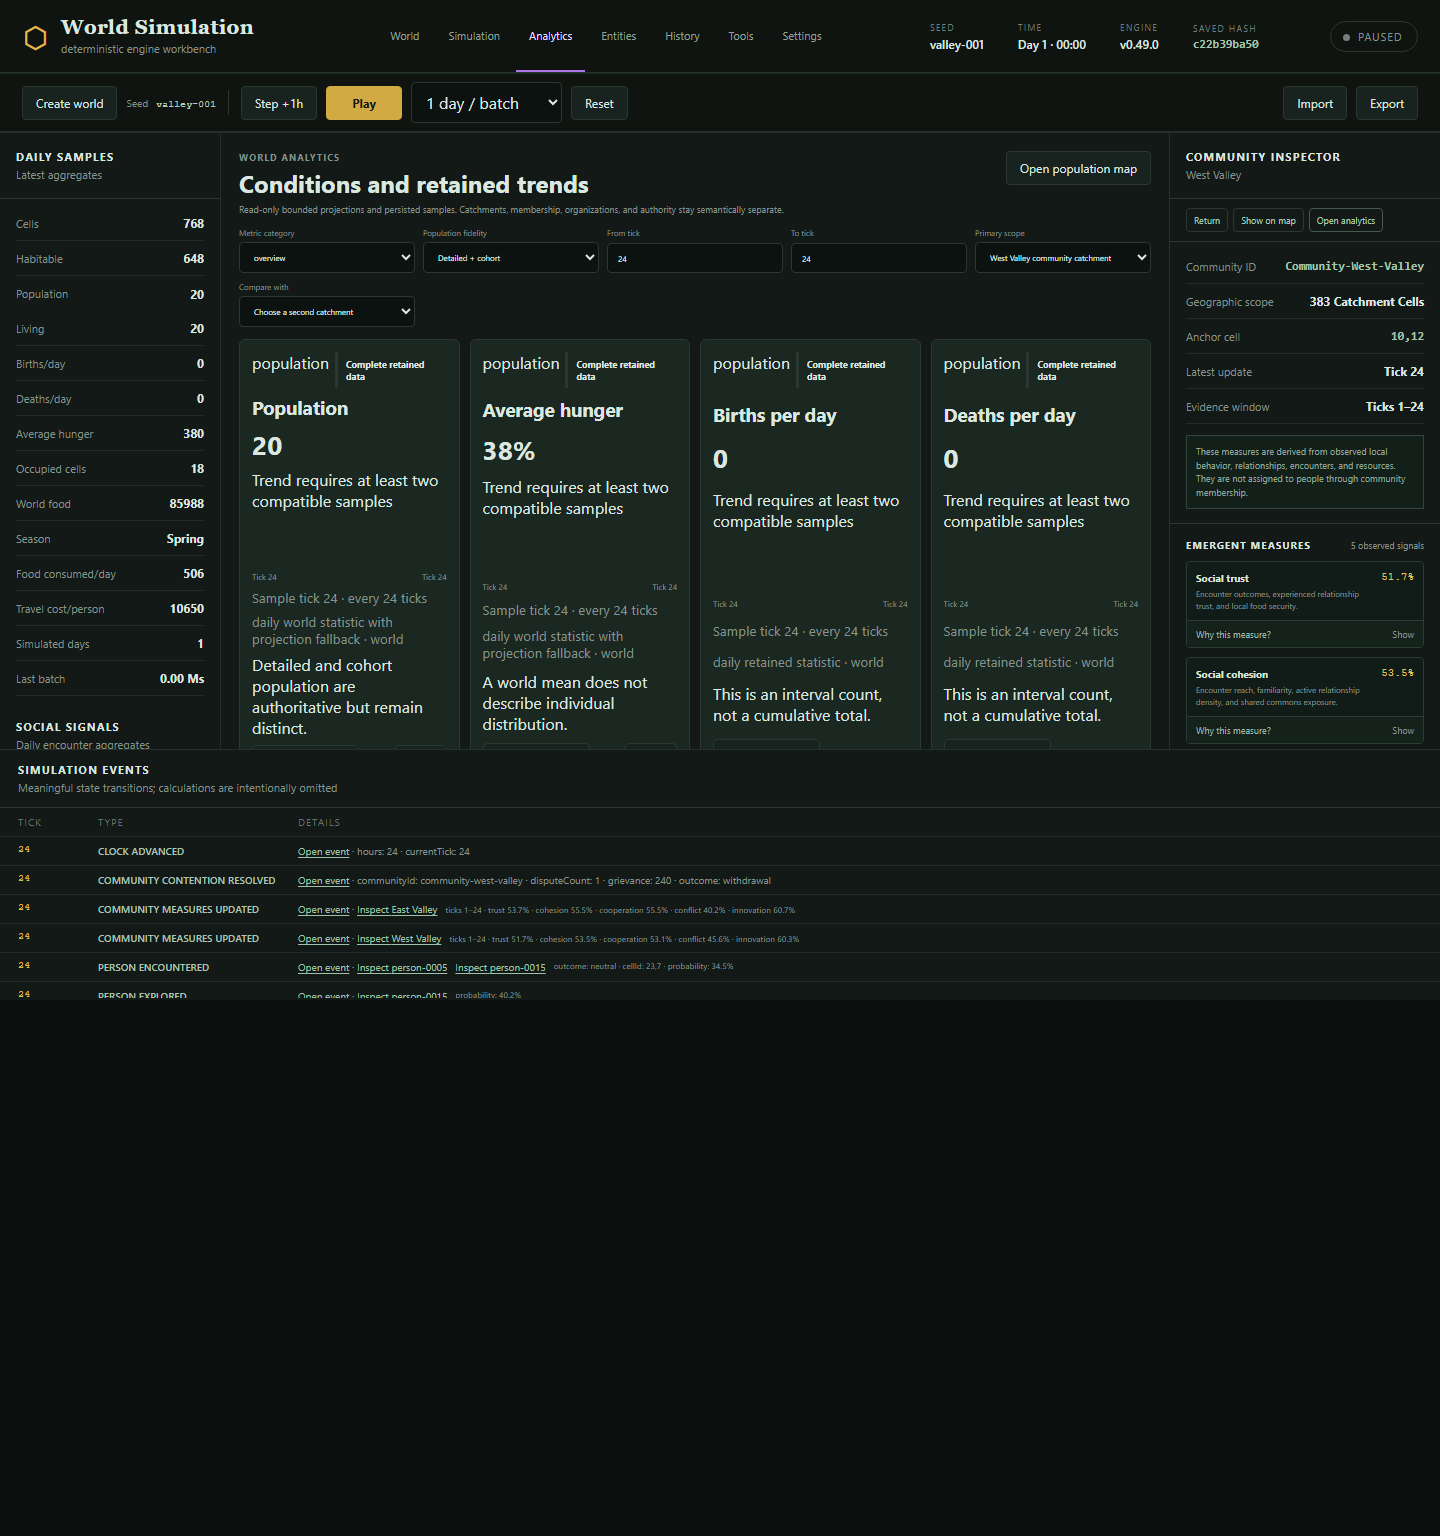
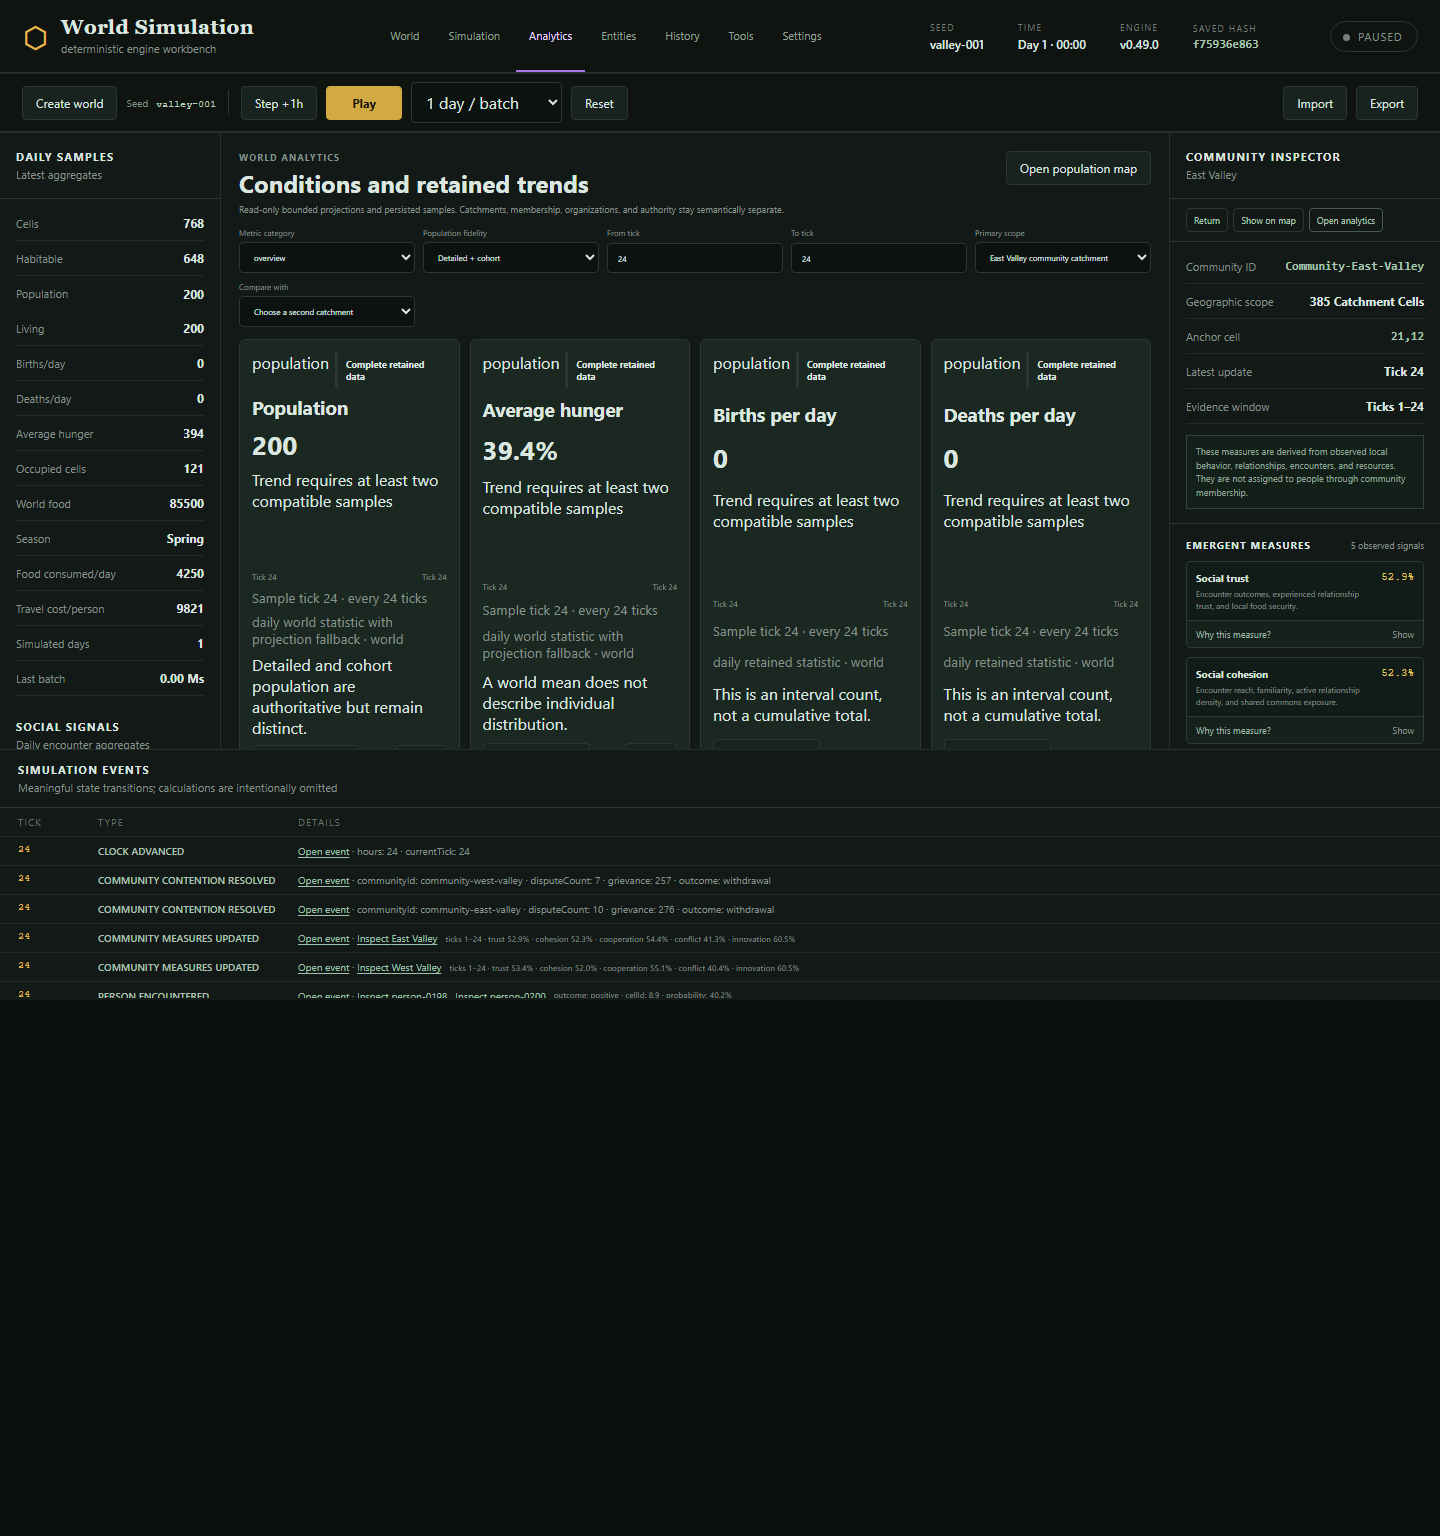
fix(ui): reconcile cross-workspace evidence (#160)

diff --git a/tests/e2e/workbench.suites.ts b/tests/e2e/workbench.suites.ts
@@ -990,20 +990,9 @@ capabilityTest('quality', '@critical traverses every analytical workspace with a
 })
 
 capabilityTest('quality', '@critical follows persisted causal evidence from controls through history, geography, and analytics', async ({ page }, testInfo) => {
-  testInfo.setTimeout(180_000)
+  testInfo.setTimeout(240_000)
   await page.setViewportSize({ width: 1440, height: 1000 })
-  await page.goto('/?workspace=world')
-  await page.getByRole('button', { name: 'Create world', exact: true }).click()
-  const setup = page.getByRole('dialog', { name: 'Shape a new world' })
-  await setup.getByLabel('World name').fill('Convergence Valley')
-  await setup.getByLabel('Starting population').fill('20')
-  await setup.getByLabel('Zone 1 people').fill('10')
-  await setup.getByLabel('Zone 2 people').fill('10')
-  const commitWorld = setup.getByRole('button', { name: 'Commit & create world', exact: true })
-  await expect(commitWorld).toBeEnabled({ timeout: 120_000 })
-  await commitWorld.click()
-  await expect(setup).toBeHidden()
-  await page.getByRole('button', { name: 'simulation', exact: true }).click()
+  await page.goto('/?workspace=simulation')
   await expect(page.getByRole('heading', { name: /Run run-/ })).toBeVisible()
   await expect(page.locator('.run-facts')).toContainText('valley-001')
 
@@ -1013,25 +1002,25 @@ capabilityTest('quality', '@critical follows persisted causal evidence from cont
 
   await page.getByLabel('Snapshot name').fill('Convergence evidence')
   await page.locator('.save-form').getByRole('button', { name: 'Save', exact: true }).click()
-  await expect(page.getByText('Saved snapshot: Convergence evidence', { exact: true })).toBeVisible({ timeout: 60_000 })
+  await expect(page.getByText('Saved snapshot: Convergence evidence', { exact: true })).toBeVisible({ timeout: 90_000 })
 
-  await page.getByRole('button', { name: 'history', exact: true }).click()
+  const currentCommunityEvent = page.locator('.event-row').filter({ hasText: 'COMMUNITY MEASURES UPDATED' }).first()
+  await expect(currentCommunityEvent).toBeVisible()
+  await currentCommunityEvent.getByRole('link', { name: 'Open event' }).click()
   await expect(page.getByRole('heading', { name: 'Multi-lane recorded evidence' })).toBeVisible()
-  await page.getByLabel('From tick').fill('24')
-  await expect(page.getByRole('button', { name: 'Refresh history' })).toBeVisible({ timeout: 60_000 })
-  const communityEvent = page.getByTitle(/COMMUNITY_MEASURES_UPDATED at tick 24/).first()
-  await expect(communityEvent).toBeVisible()
-  await communityEvent.click()
+  await expect(page.getByRole('button', { name: 'Refresh history' })).toBeVisible({ timeout: 90_000 })
   const evidence = page.getByLabel('Selected event evidence')
   await expect(evidence).toContainText('COMMUNITY MEASURES UPDATED')
   const communityLink = evidence.getByRole('button', { name: /Open community community-/ }).first()
   await expect(communityLink).toBeVisible()
   await communityLink.click()
 
-  await expect(page.getByRole('heading', { name: 'Convergence Valley' })).toBeVisible()
+  await expect(page.getByRole('heading', { name: 'Seeded Valley' })).toBeVisible()
+  await expect(page.getByRole('heading', { name: 'Emergent measures' })).toBeVisible()
   await expect(page.getByRole('button', { name: 'Open analytics' })).toBeVisible()
   await page.getByRole('button', { name: 'Open analytics' }).click()
   await expect(page.getByRole('heading', { name: 'Conditions and retained trends' })).toBeVisible()
+  await expect(page.getByRole('heading', { name: 'Emergent measures' })).toBeVisible()
   await expect(page.locator('.analytics-card').first()).toBeVisible()
   await expect(page.locator('.analytics-module-grid').first()).toBeVisible()
   await expect(page.locator('.run-facts .fact').filter({ hasText: 'SAVED HASH' }).locator('strong')).toHaveText(canonicalHash ?? '')

diff --git a/src/App.tsx b/src/App.tsx
@@ -624,7 +624,7 @@ export default function App() {
   useEffect(() => {
     if (!projection) return
     navigation.reconcile(buildWorkbenchAvailability(projection, { eventIds, historyLoaded: history !== undefined, metricIds }))
-  }, [eventIds, history, metricIds, navigation.reconcile, navigationState.focusedEntity, navigationState.selectedEntity, projection])
+  }, [eventIds, history, metricIds, navigation.reconcile, navigationState.focusedEntity, navigationState.selectedEntity, navigationState.selectionStatus, projection])
 
   useEffect(() => {
     if (activeMode === 'history' || activeMode === 'analytics') void refreshHistory()
